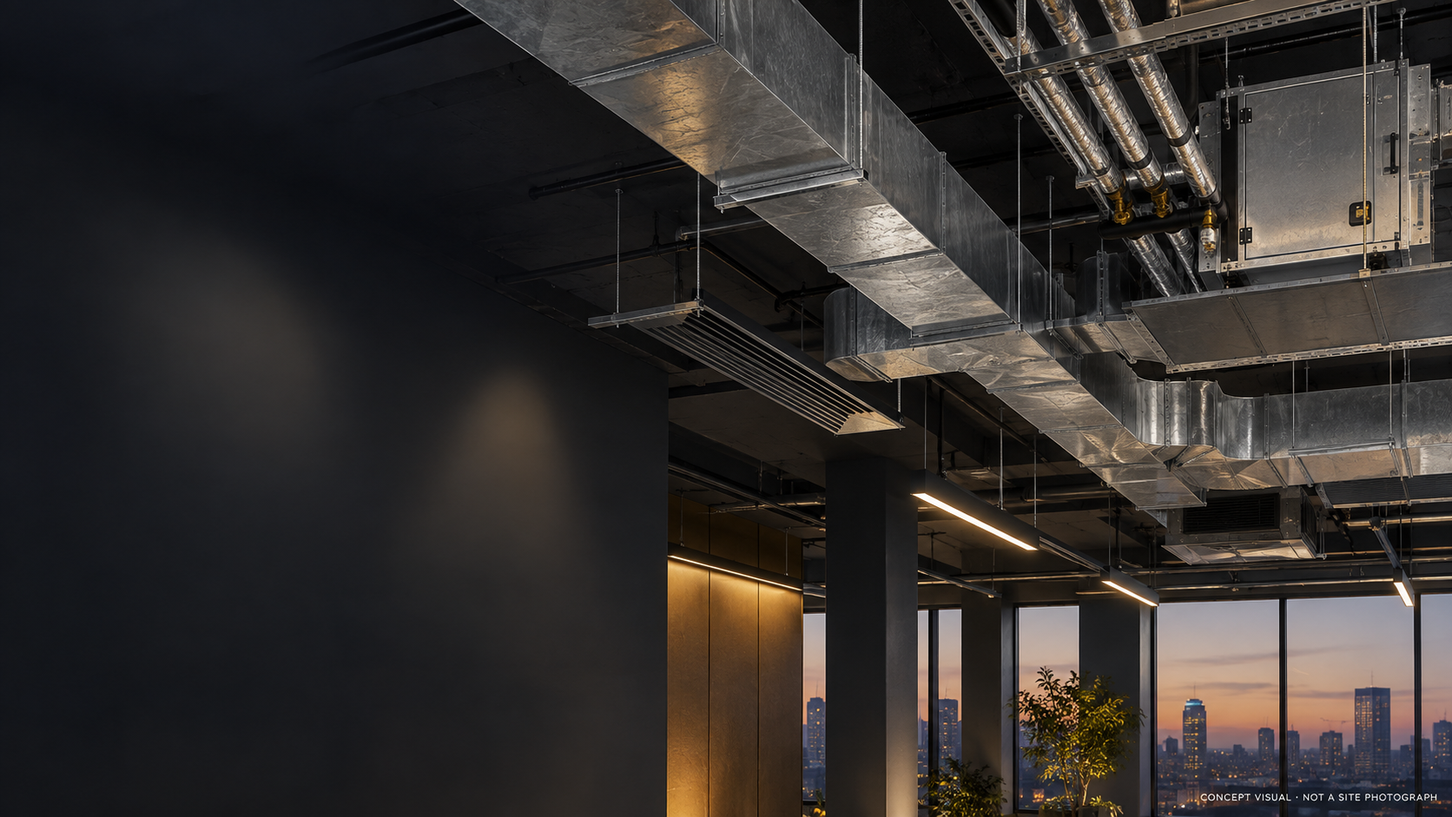
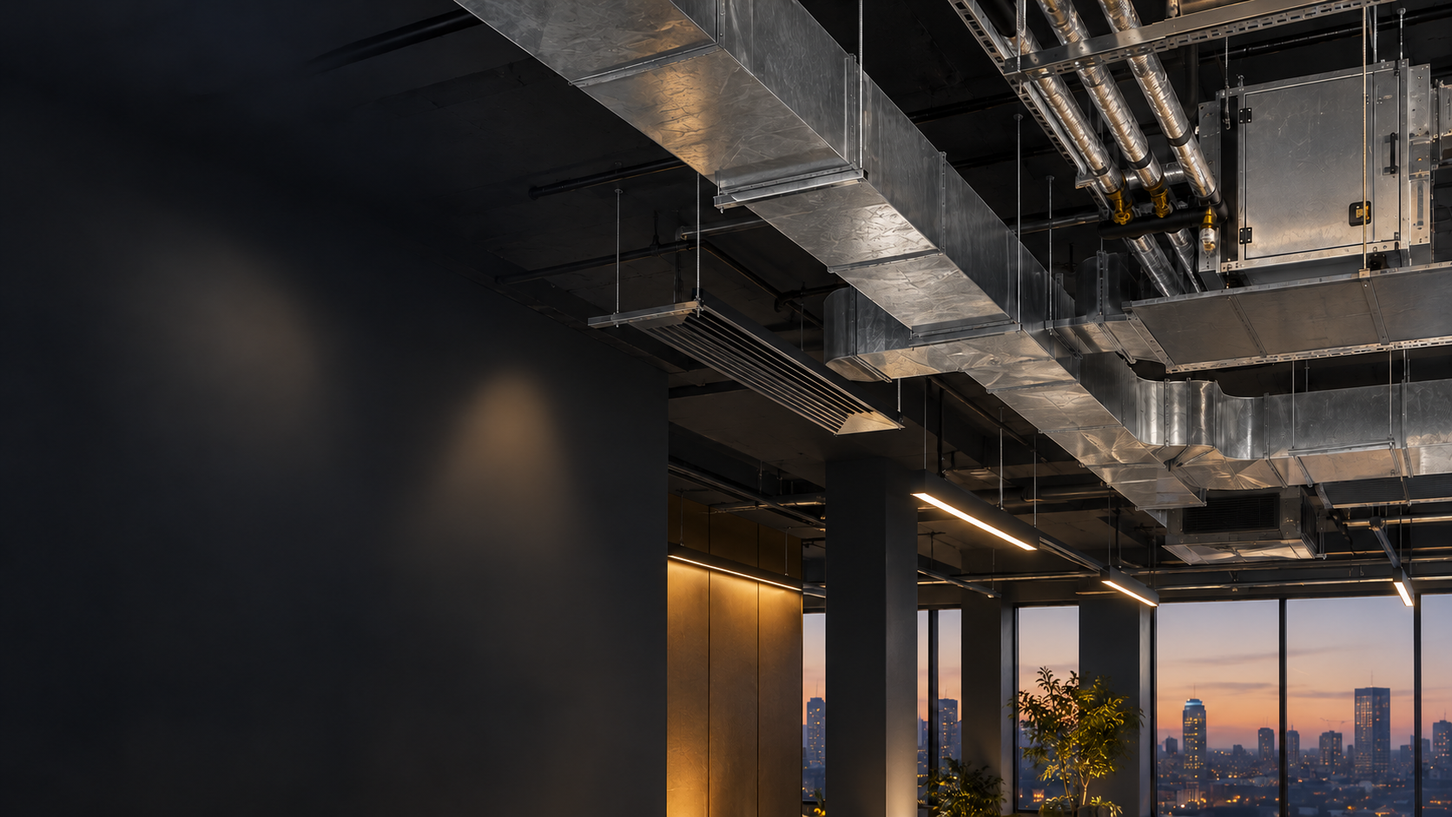
Improve website conversion and visual presentation

diff --git a/index.html b/index.html
@@ -12,7 +12,7 @@
 <link rel="icon" href="assets/brand/mac-key-grip-logo.jpg" type="image/jpeg">
 <link rel="preconnect" href="https://fonts.googleapis.com"><link rel="preconnect" href="https://fonts.gstatic.com" crossorigin>
 <link href="https://fonts.googleapis.com/css2?family=DM+Sans:wght@400;500;600;700&amp;family=Space+Grotesk:wght@500;600;700&amp;display=swap" rel="stylesheet">
-<link rel="stylesheet" href="styles.css"><link rel="stylesheet" href="drawings.css"><link rel="stylesheet" href="services.css"><link rel="stylesheet" href="visuals.css"><script src="script.js" defer></script>
+<link rel="stylesheet" href="styles.css"><link rel="stylesheet" href="drawings.css"><link rel="stylesheet" href="services.css"><link rel="stylesheet" href="visuals.css?v=2"><script src="script.js" defer></script>
 <script type="application/ld+json">{"@context":"https://schema.org","@type":"ProfessionalService","@id":"https://mackeygrip.github.io/#business","name":"Mac Key Grip Engineering","url":"https://mackeygrip.github.io/","logo":"https://mackeygrip.github.io/assets/brand/mac-key-grip-logo.jpg","image":"https://mackeygrip.github.io/assets/brand/mac-key-grip-logo.jpg","email":"mailto:mackeygrip@gmail.com","telephone":"+260770262871","description":"Engineering design and analysis capability covering HVAC, MEP coordination, water and sewer systems, fuel-station concepts, mechanical CAD and technical data analysis.","founder":{"@type":"Person","name":"Chinunka Chabala","jobTitle":"Mechanical Engineer"},"address":{"@type":"PostalAddress","addressLocality":"Lusaka","addressCountry":"ZM"},"areaServed":{"@type":"Country","name":"Zambia"},"sameAs":["https://www.instagram.com/mac_key_grip_engineering","https://www.tiktok.com/@mac.key.grip.engi","https://www.facebook.com/itxchinunkadat.brainboxer"],"knowsAbout":["HVAC design","MEP coordination","Water supply design","Sewer and drainage design","Fuel-station layouts","Mechanical CAD","Engineering data analysis"]}</script>
 </head>
 <body>
@@ -20,13 +20,13 @@
 <header class="site-header" data-header>
 <a class="brand" href="#top" aria-label="Mac Key Grip Engineering home"><img src="assets/brand/mac-key-grip-logo.jpg" alt="Mac Key Grip company logo"><span class="brand-name">Mac Key Grip<small>Engineering</small></span></a>
 <button class="menu-toggle" type="button" aria-expanded="false" aria-controls="site-nav"><span></span><span></span><span></span><b>Menu</b></button>
-<nav id="site-nav" aria-label="Primary navigation"><a href="#services">Services</a><a href="#work">Work</a><a href="#approach">Approach</a><a href="#profile">Profile</a><a class="nav-contact" href="#contact">Start a project <span>↗</span></a></nav>
+<nav id="site-nav" aria-label="Primary navigation"><a href="#services">Services</a><a href="#work">Work</a><a href="#approach">Approach</a><a href="#profile">Profile</a><a class="nav-contact" href="#contact">Request a quote <span>↗</span></a></nav>
 </header>
 <main id="main">
 <section class="hero" id="top">
-<div class="hero-media" aria-hidden="true"><img src="assets/visuals/concepts/hvac-ceiling-concept.webp" alt=""></div><div class="hero-shade"></div><div class="hero-grid" aria-hidden="true"></div>
-<div class="hero-content"><p class="kicker light">Mechanical design · Lusaka, Zambia</p><h1>HVAC &amp; MEP design.<br><em>Built with clarity.</em></h1><p class="hero-intro">Air-conditioning, ventilation, water and sewer design with coordinated CAD drawings. Mac Key Grip Engineering supports building and infrastructure projects in Zambia from its base in Lusaka.</p><div class="hero-actions"><a class="button button-yellow" href="services/hvac-air-conditioning-design-zambia.html">Explore HVAC design <span>↗</span></a><a class="text-link light" href="#contact">Discuss your brief <span>↗</span></a></div></div>
-<div class="hero-rail"><p>HVAC &amp; MEP</p><p>Water &amp; sewer</p><p>Fuel systems</p><p>CAD &amp; analysis</p></div><p class="hero-credit">AI-generated concept · not a site photograph</p>
+<div class="hero-media" aria-hidden="true"><img src="assets/visuals/concepts/hvac-ceiling-concept.webp?v=2" alt=""></div><div class="hero-shade"></div><div class="hero-grid" aria-hidden="true"></div>
+<div class="hero-content"><p class="kicker light">Mechanical design · Lusaka, Zambia</p><h1>HVAC &amp; MEP design.<br><em>Built with clarity.</em></h1><p class="hero-intro">Air-conditioning, ventilation, water and sewer design with coordinated CAD drawings. Mac Key Grip Engineering supports building and infrastructure projects in Zambia from its base in Lusaka.</p><div class="hero-actions"><a class="button button-yellow" href="#contact">Request a quote <span>↗</span></a><a class="text-link light" href="services/hvac-air-conditioning-design-zambia.html">Explore HVAC design <span>↗</span></a></div></div>
+<div class="hero-rail"><p>HVAC &amp; MEP</p><p>Water &amp; sewer</p><p>Fuel systems</p><p>CAD &amp; analysis</p></div>
 </section>
 <section class="statement section-light">
 <div class="statement-mark" aria-hidden="true">MKG</div><div class="statement-copy reveal"><p class="kicker">What we do</p><h2>Engineering that moves from a sound idea to a coordinated, readable deliverable.</h2></div><div class="statement-aside reveal"><p>Mac Key Grip brings together system thinking, calculation, modelling and documentation—so the work is easier to review, communicate and develop.</p><a class="text-link" href="#profile">Meet the engineer <span>↗</span></a></div>
@@ -41,6 +41,10 @@
 </div>
 <div class="service-directory"><a href="services/hvac-air-conditioning-design-zambia.html">HVAC and air-conditioning design in Zambia ↗</a><a href="services/mep-design-coordination-zambia.html">Mechanical, plumbing and MEP coordination ↗</a></div>
 </section>
+<section class="water-feature" aria-labelledby="water-heading">
+<div class="water-feature-media"><img src="assets/visuals/concepts/water-treatment-concept.webp?v=2" width="1672" height="941" loading="lazy" alt="" aria-hidden="true"></div>
+<div class="water-feature-copy"><p class="kicker">Water systems</p><h2 id="water-heading">Storage. Treatment.<br>Distribution.</h2><p>Plan water demand, storage, pumping and distribution as one coordinated system. Clear layouts connect equipment, pipe routes and maintenance access.</p><a class="text-link" href="services/mep-design-coordination-zambia.html">Explore mechanical &amp; plumbing design <span>↗</span></a></div>
+</section>
 <section class="work section-light" id="work">
 <header class="section-header dark-text reveal"><div><p class="kicker">Drawing portfolio</p><h2>The design, in detail.</h2></div><p>Ten drawing sheets across five project sets: building services, water, sewer, fire services and fuel infrastructure. Explore complete layouts and their supporting details.</p></header>
 <div class="project-grid">
@@ -50,9 +54,9 @@
 <article class="project cad-project reveal"><a class="project-image portfolio-cover" href="projects/apartments-hvac.html" aria-label="Explore Apartment HVAC drawings"><img src="assets/visuals/covers/apartments-hvac.webp" width="1600" height="1000" loading="lazy" alt="Portfolio cover composed from genuine Apartment HVAC CAD drawings"></a><div class="project-info"><p>Residential building services</p><h3><a href="projects/apartments-hvac.html">Apartments — HVAC coordination</a></h3><span>Cooling, ductwork &amp; extraction</span></div></article>
 <article class="project cad-project reveal"><a class="project-image portfolio-cover" href="projects/office-hvac.html" aria-label="Explore Office HVAC drawings"><img src="assets/visuals/covers/office-hvac.webp" width="1600" height="1000" loading="lazy" alt="Portfolio cover composed from genuine Office HVAC CAD drawings"></a><div class="project-info"><p>Commercial building services</p><h3><a href="projects/office-hvac.html">Office — HVAC layout &amp; schedules</a></h3><span>Air-conditioning &amp; ventilation</span></div></article>
 <article class="project project-graphic reveal"><a class="project-image data-visual" href="#analysis" aria-label="View analytical project work"><div class="chart-bars" aria-hidden="true"><i></i><i></i><i></i><i></i><i></i><i></i></div><span class="data-value">5 yr</span><span class="data-caption">dashboard view</span><span class="project-index">04</span></a><div class="project-info"><p>Decision support</p><h3>Excel analysis &amp; dashboards</h3><span>Data cleaning · scenarios · reporting</span></div></article>
-</div><p class="image-note">Drawing samples are supplied by Chinunka Chabala; original sheet credits and issue status are retained in the full-sheet views. The hero is an AI-generated concept visual, not a photograph of completed work. <a href="CREDITS.md">View image credits</a>.</p>
+</div><p class="image-note">Drawing samples are supplied by Chinunka Chabala; original sheet credits and issue status are retained in the full-sheet views. <a href="CREDITS.md">View image credits</a>.</p>
 </section>
-<section class="visual-feature" aria-labelledby="visual-heading"><div><p class="kicker light">Technical presentation</p><h2 id="visual-heading">See the thinking.<br>Read the detail.</h2><p>Presentation boards and annotated views make the original CAD work easier to explore. Concept installation visuals are labelled separately.</p><a class="button button-yellow" href="visuals.html">Explore the visual gallery ↗</a></div><a href="visuals.html#boards"><img src="assets/visuals/boards/hvac-annotated.webp" width="1600" height="1067" loading="lazy" alt="Annotated original apartment HVAC drawing with four numbered explanatory callouts"></a></section>
+<section class="visual-feature" aria-labelledby="visual-heading"><div><p class="kicker light">Technical presentation</p><h2 id="visual-heading">See the thinking.<br>Read the detail.</h2><p>Presentation boards and annotated views make the original CAD work easier to explore.</p><a class="button button-yellow" href="visuals.html">Explore the visual gallery ↗</a></div><a href="visuals.html#boards"><img src="assets/visuals/boards/hvac-annotated.webp" width="1600" height="1067" loading="lazy" alt="Annotated original apartment HVAC drawing with four numbered explanatory callouts"></a></section>
 <section class="analysis-section" id="analysis">
 <div class="analysis-visual reveal" aria-label="Abstract electric vehicle supply-chain route diagram"><div class="route-grid" aria-hidden="true"></div><svg viewBox="0 0 700 440" role="img" aria-label="Supply chain route connecting battery inputs, production, assembly and distribution"><path d="M50 330C145 330 145 115 260 115S370 330 475 330 555 165 650 165"/><circle cx="50" cy="330" r="11"/><circle cx="260" cy="115" r="11"/><circle cx="475" cy="330" r="11"/><circle cx="650" cy="165" r="11"/></svg><span class="route-point p1">Inputs</span><span class="route-point p2">Battery</span><span class="route-point p3">Assembly</span><span class="route-point p4">Market</span><div class="analysis-stamp"><strong>12</strong><span>month<br>pilot model</span></div></div>
 <div class="analysis-copy reveal"><p class="kicker light">Research &amp; simulation</p><h2>EV supply-chain model for Zambia.</h2><p>A final-year project modelling the flow of regional battery inputs and imported components into battery production and vehicle assembly in Chibombo.</p><dl><div><dt>Platform</dt><dd>AnyLogic</dd></div><div><dt>Focus</dt><dd>Inventory, throughput, delay and bottlenecks</dd></div><div><dt>Outcome</dt><dd>A structured pilot scenario for technical evaluation</dd></div></dl></div>
@@ -68,7 +72,7 @@
 </section>
 <section class="contact section-dark" id="contact">
 <div class="contact-intro reveal"><p class="kicker light">Start a conversation</p><h2>Bring the brief.<br><em>Let’s shape the system.</em></h2><p>For a useful first discussion, share the project location, available drawings, required scope and expected deliverables.</p></div>
-<div class="contact-panel reveal"><p class="contact-panel-title">Connect with Mac Key Grip</p><div class="contact-links">
+<div class="contact-panel reveal"><p class="contact-panel-title">Request a project quote</p><form class="enquiry-form" data-enquiry-form><div class="form-row"><label for="enquiry-name">Your name</label><input id="enquiry-name" name="name" type="text" autocomplete="name" required></div><div class="form-row"><label for="enquiry-email">Email address</label><input id="enquiry-email" name="email" type="email" autocomplete="email" required></div><div class="form-row"><label for="enquiry-scope">What do you need designed?</label><select id="enquiry-scope" name="scope"><option>HVAC / air-conditioning</option><option>Water and sewer systems</option><option>MEP coordination</option><option>Fuel-station layout</option><option>CAD or engineering analysis</option><option>Not sure yet</option></select></div><div class="form-row"><label for="enquiry-message">Brief project details</label><textarea id="enquiry-message" name="message" rows="4" placeholder="Location, building use, drawings available and desired deliverables" required></textarea></div><button class="button button-yellow" type="submit">Prepare email enquiry <span>↗</span></button><p class="form-note">This static site opens your email app with the details filled in; no form data is stored here.</p><p class="contact-status" data-form-status role="status" aria-live="polite"></p></form><p class="contact-panel-title contact-options-title">Or connect directly</p><div class="contact-links">
 <a data-contact="whatsapp" href="https://wa.me/260770262871" target="_blank" rel="noopener"><span>WA</span><strong>WhatsApp</strong><small>+260 770 262 871</small><b>↗</b></a>
 <a data-contact="email" href="mailto:mackeygrip@gmail.com"><span>@</span><strong>Email</strong><small>mackeygrip@gmail.com</small><b>↗</b></a>
 <a data-contact="instagram" href="https://www.instagram.com/mac_key_grip_engineering" target="_blank" rel="noopener"><span>IG</span><strong>Instagram</strong><small>@mac_key_grip_engineering</small><b>↗</b></a>

diff --git a/styles.css b/styles.css
@@ -1,5 +1,5 @@
 :root{--black:#0a0b0b;--charcoal:#1a1d1d;--yellow:#ffe600;--paper:#f2f1ec;--ink:#151717;--line-dark:rgba(255,255,255,.16);--line-light:rgba(10,11,11,.17);--max:1320px;--pad:max(24px,calc((100vw - var(--max))/2))}
-*{box-sizing:border-box}html{scroll-behavior:smooth;scroll-padding-top:84px}body{margin:0;color:var(--ink);background:var(--paper);font-family:"DM Sans",Arial,sans-serif;line-height:1.55}body.menu-open{overflow:hidden}img{display:block;max-width:100%}a{color:inherit}button{font:inherit}h1,h2,h3,p{margin-top:0}.skip-link{position:fixed;z-index:1000;left:1rem;top:-6rem;padding:.8rem 1rem;color:#000;background:var(--yellow)}.skip-link:focus{top:1rem}.kicker{margin:0 0 1.35rem;color:#3e4442;font-size:.69rem;font-weight:700;letter-spacing:.18em;text-transform:uppercase}.kicker.light{color:var(--yellow)}.section-light,.section-dark,.section-yellow{padding:clamp(5.5rem,9vw,9.5rem) var(--pad)}.section-light{background:var(--paper)}.section-dark{color:#fff;background:var(--black)}.section-yellow{color:#090a0a;background:var(--yellow)}
+*{box-sizing:border-box}html{scroll-behavior:smooth;scroll-padding-top:84px}body{margin:0;color:var(--ink);background:var(--paper);font-family:"DM Sans",Arial,sans-serif;line-height:1.55}body.menu-open{overflow:hidden}img{display:block;max-width:100%}a{color:inherit}button{font:inherit}h1,h2,h3,p{margin-top:0}.skip-link{position:fixed;z-index:1000;left:1rem;top:-6rem;padding:.8rem 1rem;color:#000;background:var(--yellow)}.skip-link:focus{top:1rem}.kicker{margin:0 0 1.35rem;color:#3e4442;font-size:.69rem;font-weight:700;letter-spacing:.18em;text-transform:uppercase}.kicker.light{color:var(--yellow)}.section-light,.section-dark,.section-yellow{padding:clamp(5.5rem,9vw,9.5rem) var(--pad)}.section-light{background:var(--paper)}.section-dark{color:#fff;background:var(--black)}.section-yellow{color:#090a0a;background:var(--yellow)}:focus-visible{outline:3px solid var(--yellow);outline-offset:4px}.section-light :focus-visible,.section-yellow :focus-visible{outline-color:#111}
 .site-header{position:fixed;z-index:100;inset:0 0 auto;height:84px;display:flex;align-items:center;justify-content:space-between;padding:0 var(--pad);color:#fff;background:rgba(10,11,11,.93);border-bottom:1px solid rgba(255,255,255,.12);backdrop-filter:blur(16px);transition:.25s}.site-header.scrolled{height:72px;background:rgba(10,11,11,.98)}.brand,.footer-brand{display:flex;align-items:center;gap:.75rem;text-decoration:none}.brand img{width:48px;height:48px;object-fit:contain;background:#071a23}.brand-name{font-family:"Space Grotesk";font-size:.93rem;font-weight:700;line-height:1.05}.brand-name small{display:block;margin-top:.28rem;color:var(--yellow);font:700 .52rem "DM Sans";letter-spacing:.2em;text-transform:uppercase}.site-header nav{display:flex;align-items:center;gap:clamp(1rem,2.1vw,2.2rem)}.site-header nav a{font-size:.75rem;font-weight:600;text-decoration:none}.site-header nav>a:not(.nav-contact){position:relative}.site-header nav>a:not(.nav-contact):after{content:"";position:absolute;left:0;bottom:-.45rem;width:0;height:2px;background:var(--yellow);transition:.2s}.site-header nav>a:hover:after{width:100%}.nav-contact{padding:.74rem 1rem;color:#050505;background:var(--yellow)}.nav-contact span{margin-left:.65rem}.menu-toggle{display:none}
 .hero{position:relative;isolation:isolate;min-height:820px;height:100svh;overflow:hidden;display:flex;align-items:flex-end;padding:calc(84px + 5rem) var(--pad) 7rem;color:#fff;background:#111}.hero-media,.hero-shade,.hero-grid{position:absolute;inset:0}.hero-media{z-index:-4}.hero-media img{width:100%;height:100%;object-fit:cover;object-position:center 42%;filter:grayscale(1) contrast(1.18) brightness(.64);transform:scale(1.02)}.hero-shade{z-index:-3;background:linear-gradient(90deg,rgba(5,6,6,.96),rgba(5,6,6,.74) 43%,rgba(5,6,6,.26) 75%,rgba(5,6,6,.48)),linear-gradient(0deg,rgba(5,6,6,.92),transparent 53%)}.hero-grid{z-index:-2;opacity:.14;background-image:linear-gradient(rgba(255,255,255,.16) 1px,transparent 1px),linear-gradient(90deg,rgba(255,255,255,.16) 1px,transparent 1px);background-size:76px 76px;mask-image:linear-gradient(90deg,#000,transparent 70%)}.hero-content{width:min(930px,78%)}.hero h1{margin:0;font:600 clamp(3.7rem,7.6vw,7.8rem)/.88 "Space Grotesk";letter-spacing:-.065em}.hero h1 em,.contact h2 em{color:var(--yellow);font-style:normal}.hero-intro{max-width:670px;margin:2rem 0 0;color:#d6d9d7;font-size:clamp(1rem,1.5vw,1.22rem)}.hero-actions{display:flex;align-items:center;gap:2rem;margin-top:2.4rem}.button{display:inline-flex;align-items:center;justify-content:space-between;min-width:220px;padding:1rem 1.15rem;font-size:.75rem;font-weight:700;text-decoration:none;text-transform:uppercase;letter-spacing:.08em;transition:.2s}.button:hover{transform:translateY(-3px)}.button-yellow{color:#050505;background:var(--yellow)}.button-yellow:hover{background:#fff}.text-link{display:inline-flex;align-items:center;gap:.8rem;padding:.35rem 0;border-bottom:1px solid;font-size:.78rem;font-weight:700;text-decoration:none}.text-link span{transition:.2s}.text-link:hover span{transform:translate(3px,-3px)}.text-link.light{color:#fff}.hero-rail{position:absolute;right:var(--pad);bottom:7rem;display:grid;gap:.85rem;padding-left:1.5rem;border-left:1px solid rgba(255,255,255,.4)}.hero-rail p{margin:0;color:#d5d7d6;font-size:.67rem;font-weight:600;letter-spacing:.13em;text-transform:uppercase}.hero-credit{position:absolute;right:var(--pad);bottom:1.5rem;margin:0;color:rgba(255,255,255,.55);font-size:.52rem;letter-spacing:.08em;text-transform:uppercase}
 .statement{position:relative;overflow:hidden;display:grid;grid-template-columns:1.4fr .6fr;gap:clamp(3rem,8vw,9rem);align-items:end}.statement-mark{position:absolute;right:-3rem;top:-5rem;color:rgba(10,11,11,.035);font:700 clamp(12rem,29vw,30rem)/1 "Space Grotesk"}.statement h2,.section-header h2,.analysis-copy h2,.profile-title h2,.contact h2{margin:0;font:600 clamp(2.7rem,5vw,5.4rem)/.98 "Space Grotesk";letter-spacing:-.055em}.statement-copy,.statement-aside{position:relative}.statement-aside{max-width:400px}.statement-aside p{margin-bottom:2rem;color:#555b58}
@@ -9,6 +9,7 @@
 .process{display:grid;grid-template-columns:repeat(4,1fr);margin:0;padding:0;border-top:1px solid var(--line-light);list-style:none}.process li{position:relative;min-height:260px;padding:1.6rem 1.7rem 1.5rem 0;border-right:1px solid var(--line-light)}.process li+li{padding-left:1.7rem}.process li:last-child{border:0}.process span{color:#606562;font-size:.65rem}.process h3{margin:5rem 0 .8rem;font:1.55rem "Space Grotesk"}.process p{max-width:240px;margin:0;color:#5f6562;font-size:.8rem}.process li:after{content:"";position:absolute;right:-5px;top:-5px;width:9px;height:9px;background:var(--yellow);border:1px solid #111;border-radius:50%}.process li:last-child:after{display:none}
 .profile{display:grid;grid-template-columns:1.05fr .95fr;gap:clamp(3rem,7vw,8rem)}.profile-card{align-self:start;display:grid;grid-template-columns:120px 1fr;gap:1.8rem;padding:1.8rem;background:#0e1010;color:#fff}.profile-card img{width:120px;height:120px;object-fit:contain;background:#071a23}.profile-label{margin:0 0 .65rem;color:var(--yellow);font-size:.6rem;font-weight:700;text-transform:uppercase}.profile-card h3{margin:0 0 .75rem;font:1.6rem "Space Grotesk"}.profile-card div>p:last-child{margin:0;color:#c7cbc9;font-size:.8rem}.profile-tools{grid-column:1/-1;display:grid;grid-template-columns:.3fr 1.7fr;gap:2rem;align-items:center;padding-top:2rem;border-top:1px solid rgba(0,0,0,.3)}.profile-tools p{margin:0;font-size:.68rem;font-weight:700;text-transform:uppercase}.profile-tools ul{display:flex;flex-wrap:wrap;gap:.55rem;margin:0;padding:0;list-style:none}.profile-tools li{padding:.5rem .75rem;border:1px solid rgba(0,0,0,.4);font-size:.7rem;font-weight:700}
 .contact{display:grid;grid-template-columns:.85fr 1.15fr;gap:clamp(4rem,9vw,11rem)}.contact-intro{position:sticky;top:120px}.contact-intro>p:not(.kicker){max-width:530px;margin:2rem 0 0;color:#b9bebc}.contact-links{border-top:1px solid var(--line-dark)}.contact-panel-title{margin-bottom:1.4rem;color:#939997;font-size:.66rem;font-weight:700;letter-spacing:.13em;text-transform:uppercase}.contact-links a{display:grid;grid-template-columns:44px 1fr 1.1fr 22px;gap:1rem;align-items:center;padding:1.3rem 0;border-bottom:1px solid var(--line-dark);text-decoration:none;transition:.2s}.contact-links a:hover:not([aria-disabled="true"]){padding-left:.7rem;color:var(--yellow)}.contact-links a[aria-disabled="true"]{cursor:not-allowed}.contact-links a>span{display:grid;place-items:center;width:36px;height:36px;border:1px solid #555;border-radius:50%;font-size:.62rem;font-weight:700}.contact-links strong{font:1rem "Space Grotesk"}.contact-links small{color:#929795;font-size:.68rem}.contact-status{min-height:1.2rem;margin:1.2rem 0 0;color:#8f9492;font-size:.65rem}.contact-status.active{color:var(--yellow)}
+.enquiry-form{margin:0 0 2.8rem;padding:1.5rem;background:#151818;border:1px solid var(--line-dark)}.form-row{display:grid;gap:.4rem;margin-bottom:1rem}.form-row label{color:#d8ddda;font-size:.72rem;font-weight:700}.form-row input,.form-row select,.form-row textarea{width:100%;padding:.78rem .85rem;color:#fff;background:#0a0b0b;border:1px solid #4b5350;border-radius:0;font:inherit;font-size:.82rem}.form-row textarea{resize:vertical}.form-row input::placeholder,.form-row textarea::placeholder{color:#89918d}.enquiry-form .button{border:0;cursor:pointer}.form-note{margin:1rem 0 0;color:#929795;font-size:.68rem}.contact-options-title{margin-top:0}
 footer{display:grid;grid-template-columns:1fr 1fr 1fr;gap:2rem;align-items:end;padding:2.5rem var(--pad);color:#bbb;background:#060707;border-top:1px solid rgba(255,255,255,.12);font-size:.67rem}.footer-brand img{width:45px;height:45px;object-fit:contain;background:#071a23}.footer-brand span{color:#fff;font:700 .85rem "Space Grotesk"}.footer-brand strong{display:block;color:var(--yellow);font:700 .5rem "DM Sans";letter-spacing:.17em;text-transform:uppercase}.footer-end{text-align:right}.footer-end a{color:#fff;font-weight:700;text-decoration:none}footer p{margin:.25rem 0}.reveal{opacity:0;transform:translateY(26px);transition:opacity .65s,transform .65s}.reveal.visible{opacity:1;transform:none}
 @media(max-width:1050px){.service{grid-template-columns:55px 1fr 1fr 30px}.service ul{display:none}.project-info{grid-template-columns:1fr}.analysis-section{grid-template-columns:1fr}.analysis-copy{grid-row:1}.analysis-visual{min-height:520px}.profile,.contact{grid-template-columns:1fr}.contact-intro{position:static}}
 @media(max-width:780px){html{scroll-padding-top:70px}.site-header{height:70px}.site-header.scrolled{height:64px}.brand img{width:40px;height:40px}.menu-toggle{display:grid;width:45px;height:45px;padding:12px;border:0;background:transparent}.menu-toggle span{height:1px;margin:2px 0;background:#fff;transition:.2s}.menu-toggle b{position:absolute;width:1px;height:1px;overflow:hidden}.menu-toggle[aria-expanded="true"] span:nth-child(1){transform:translateY(5px) rotate(45deg)}.menu-toggle[aria-expanded="true"] span:nth-child(2){opacity:0}.menu-toggle[aria-expanded="true"] span:nth-child(3){transform:translateY(-5px) rotate(-45deg)}.site-header nav{position:fixed;inset:70px 0 0;display:flex;flex-direction:column;align-items:stretch;gap:0;padding:2rem 24px;background:#0a0b0b;transform:translateX(100%);visibility:hidden;transition:.3s}.site-header nav.open{transform:none;visibility:visible}.site-header nav a{padding:1.3rem 0;border-bottom:1px solid var(--line-dark);font:1.5rem "Space Grotesk"}.nav-contact{margin-top:1.5rem;padding:1rem!important;text-align:center}.hero{min-height:730px;padding-bottom:5rem}.hero-content{width:100%}.hero h1{font-size:clamp(3.4rem,15vw,6rem)}.hero-rail{display:none}.statement,.section-header{grid-template-columns:1fr}.section-header{gap:1.5rem;margin-bottom:3.5rem}.service{grid-template-columns:40px 1fr 24px;gap:1rem}.service p{grid-column:2/-1}.service-arrow{grid-column:3;grid-row:1}.project-grid{grid-template-columns:1fr}.project-wide{grid-column:auto}.project-image,.project:not(.project-wide) .project-image{height:72vw;min-height:300px;max-height:470px}.project-info{gap:.6rem}.process{grid-template-columns:1fr 1fr}.process li:nth-child(2){border-right:0}.process li:nth-child(2):after{display:none}.process li:nth-child(n+3){border-top:1px solid var(--line-light)}.profile-tools{grid-template-columns:1fr}.contact-links a{grid-template-columns:44px 1fr 22px}.contact-links small{display:none}footer{grid-template-columns:1fr 1fr}.footer-end{grid-column:2;grid-row:1/3}footer>div:nth-child(2){grid-column:1}}

diff --git a/visuals.html b/visuals.html
@@ -1,8 +1,8 @@
 <!doctype html>
 <html lang="en"><head>
 <meta charset="utf-8"><meta name="viewport" content="width=device-width, initial-scale=1">
-<title>Engineering Drawing Presentations & Concept Visuals | Mac Key Grip</title>
-<meta name="description" content="Explore genuine CAD presentation boards, annotated layouts and project covers from Mac Key Grip Engineering, alongside clearly labelled concept installation visuals.">
+<title>Engineering Drawing Presentations & Website Imagery | Mac Key Grip</title>
+<meta name="description" content="Explore genuine CAD presentation boards, annotated layouts and project covers from Mac Key Grip Engineering, alongside architectural visualisations for the website design.">
 <link rel="canonical" href="https://mackeygrip.github.io/visuals.html">
 <meta property="og:title" content="Engineering Drawing Portfolio | Mac Key Grip Engineering">
 <meta property="og:type" content="website"><meta property="og:url" content="https://mackeygrip.github.io/visuals.html">
@@ -11,11 +11,11 @@
 <meta name="theme-color" content="#111918"><link rel="icon" href="assets/brand/mac-key-grip-logo.jpg">
 <link rel="preconnect" href="https://fonts.googleapis.com"><link rel="preconnect" href="https://fonts.gstatic.com" crossorigin>
 <link href="https://fonts.googleapis.com/css2?family=DM+Sans:wght@400;500;600;700&amp;family=Space+Grotesk:wght@500;600;700&amp;display=swap" rel="stylesheet">
-<link rel="stylesheet" href="styles.css"><link rel="stylesheet" href="drawings.css"><link rel="stylesheet" href="visuals.css">
+<link rel="stylesheet" href="styles.css"><link rel="stylesheet" href="drawings.css"><link rel="stylesheet" href="visuals.css?v=2">
 </head><body class="visual-page">
 <a class="skip-link" href="#main">Skip to content</a>
 <header class="site-header"><a class="brand" href="index.html"><img src="assets/brand/mac-key-grip-logo.jpg" alt="Mac Key Grip company logo"><span class="brand-name">Mac Key Grip<small>Engineering</small></span></a><a class="back-link" href="index.html#work">← Drawing portfolio</a></header>
-<main id="main"><section class="visual-intro"><p class="kicker">Mac Key Grip / Visual portfolio</p><h1>Engineering, clearly presented.</h1><p>Genuine drawing work, curated into project covers, presentation boards and annotated views. Explore the CAD collection first, then the separately labelled concept installation visuals.</p><div class="visual-nav" aria-label="Gallery sections"><a href="#covers">Project covers</a><a href="#boards">Boards &amp; annotations</a><a href="#social">Social graphics</a><a href="#concepts">Concept visuals</a></div></section>
+<main id="main"><section class="visual-intro"><p class="kicker">Mac Key Grip / Visual portfolio</p><h1>Engineering, clearly presented.</h1><p>Genuine drawing work, curated into project covers, presentation boards and annotated views. Browse the CAD collection and a separate selection of website imagery.</p><div class="visual-nav" aria-label="Gallery sections"><a href="#covers">Project covers</a><a href="#boards">Boards &amp; annotations</a><a href="#social">Social graphics</a><a href="#concepts">Website imagery</a></div></section>
 <section class="visual-section " id="covers"><h2>Engineering project covers</h2><p>Five individually designed covers assembled from the original drawing exports. Each links to its complete project set.</p><div class="visual-grid "><figure class="visual-item"><span class="visual-badge ">CAD DRAWING</span><a href="assets/visuals/covers/thirteen-miles.png" target="_blank" rel="noopener"><img src="assets/visuals/covers/thirteen-miles.webp" width="1600" height="1000" alt="13 Miles / Building services — Original CAD excerpts, with presentation framing and full sheets retained in the portfolio." loading="lazy"></a><figcaption><h3>13 Miles / Building services</h3><p>Original CAD excerpts, with presentation framing and full sheets retained in the portfolio.</p><div class="visual-downloads"><a href="assets/visuals/covers/thirteen-miles.png" download>Download PNG ↓</a><a href="assets/visuals/covers/thirteen-miles.svg" download>Editable SVG ↓</a><a href="projects/thirteen-miles.html">View original drawings →</a></div></figcaption></figure>
 <figure class="visual-item"><span class="visual-badge ">CAD DRAWING</span><a href="assets/visuals/covers/estate-water-fire.png" target="_blank" rel="noopener"><img src="assets/visuals/covers/estate-water-fire.webp" width="1600" height="1000" alt="Ovacado Estate / Water &amp; fire services — Original CAD excerpts, with presentation framing and full sheets retained in the portfolio." loading="lazy"></a><figcaption><h3>Ovacado Estate / Water &amp; fire services</h3><p>Original CAD excerpts, with presentation framing and full sheets retained in the portfolio.</p><div class="visual-downloads"><a href="assets/visuals/covers/estate-water-fire.png" download>Download PNG ↓</a><a href="assets/visuals/covers/estate-water-fire.svg" download>Editable SVG ↓</a><a href="projects/estate-water-fire.html">View original drawings →</a></div></figcaption></figure>
 <figure class="visual-item"><span class="visual-badge ">CAD DRAWING</span><a href="assets/visuals/covers/chililabombwe-fuel.png" target="_blank" rel="noopener"><img src="assets/visuals/covers/chililabombwe-fuel.webp" width="1600" height="1000" alt="Chililabombwe / Fuel infrastructure — Original CAD excerpts, with presentation framing and full sheets retained in the portfolio." loading="lazy"></a><figcaption><h3>Chililabombwe / Fuel infrastructure</h3><p>Original CAD excerpts, with presentation framing and full sheets retained in the portfolio.</p><div class="visual-downloads"><a href="assets/visuals/covers/chililabombwe-fuel.png" download>Download PNG ↓</a><a href="assets/visuals/covers/chililabombwe-fuel.svg" download>Editable SVG ↓</a><a href="projects/chililabombwe-fuel.html">View original drawings →</a></div></figcaption></figure>
@@ -27,7 +27,7 @@
 <section class="visual-section " id="social"><h2>Social media graphics</h2><p>Separate 1080 × 1350 PNG graphics for sharing the actual drawing portfolio, with the website address and WhatsApp contact included.</p><div class="visual-grid social-grid"><figure class="visual-item"><span class="visual-badge ">CAD DRAWING</span><a href="assets/visuals/social/apartments-hvac.png" target="_blank" rel="noopener"><img src="assets/visuals/social/apartments-hvac.png" width="1080" height="1350" alt="HVAC design / Social graphic — Cooling, ductwork and extraction." loading="lazy"></a><figcaption><h3>HVAC design / Social graphic</h3><p>Cooling, ductwork and extraction.</p><div class="visual-downloads"><a href="assets/visuals/social/apartments-hvac.png" download>Download PNG ↓</a><a href="assets/visuals/social/apartments-hvac.svg" download>Editable SVG ↓</a></div></figcaption></figure>
 <figure class="visual-item"><span class="visual-badge ">CAD DRAWING</span><a href="assets/visuals/social/estate-water-fire.png" target="_blank" rel="noopener"><img src="assets/visuals/social/estate-water-fire.png" width="1080" height="1350" alt="Water systems / Social graphic — Water, fire services and treatment." loading="lazy"></a><figcaption><h3>Water systems / Social graphic</h3><p>Water, fire services and treatment.</p><div class="visual-downloads"><a href="assets/visuals/social/estate-water-fire.png" download>Download PNG ↓</a><a href="assets/visuals/social/estate-water-fire.svg" download>Editable SVG ↓</a></div></figcaption></figure>
 <figure class="visual-item"><span class="visual-badge ">CAD DRAWING</span><a href="assets/visuals/social/chililabombwe-fuel.png" target="_blank" rel="noopener"><img src="assets/visuals/social/chililabombwe-fuel.png" width="1080" height="1350" alt="Fuel infrastructure / Social graphic — Tank arrangements, pipework and dispensers." loading="lazy"></a><figcaption><h3>Fuel infrastructure / Social graphic</h3><p>Tank arrangements, pipework and dispensers.</p><div class="visual-downloads"><a href="assets/visuals/social/chililabombwe-fuel.png" download>Download PNG ↓</a><a href="assets/visuals/social/chililabombwe-fuel.svg" download>Editable SVG ↓</a></div></figcaption></figure></div></section>
-<section class="visual-section concept-section" id="concepts"><h2>Concept installation visuals</h2><p>AI-generated illustrations communicate the engineering disciplines. They are not site photographs, verified designs or exact reconstructions of the CAD drawings.</p><div class="visual-grid "><figure class="visual-item"><span class="visual-badge concept-badge">AI-GENERATED CONCEPT</span><a href="assets/visuals/concepts/hvac-ceiling-concept.png" target="_blank" rel="noopener"><img src="assets/visuals/concepts/hvac-ceiling-concept.webp" width="1672" height="941" alt="Exposed HVAC ceiling / Concept — Illustrative mechanical-services ceiling. Used as the website hero, with a visible concept label." loading="lazy"></a><figcaption><h3>Exposed HVAC ceiling / Concept</h3><p>Illustrative mechanical-services ceiling. Used as the website hero, with a visible concept label.</p><div class="visual-downloads"><a href="assets/visuals/concepts/hvac-ceiling-concept.png" download>Download PNG ↓</a></div></figcaption></figure>
-<figure class="visual-item"><span class="visual-badge concept-badge">AI-GENERATED CONCEPT</span><a href="assets/visuals/concepts/water-treatment-concept.png" target="_blank" rel="noopener"><img src="assets/visuals/concepts/water-treatment-concept.webp" width="1672" height="941" alt="Pumping &amp; filtration / Concept — Illustrative plant room inspired by the water-services subject matter; not a reconstruction of the estate layout." loading="lazy"></a><figcaption><h3>Pumping &amp; filtration / Concept</h3><p>Illustrative plant room inspired by the water-services subject matter; not a reconstruction of the estate layout.</p><div class="visual-downloads"><a href="assets/visuals/concepts/water-treatment-concept.png" download>Download PNG ↓</a></div></figcaption></figure></div></section>
+<section class="visual-section concept-section" id="concepts"><h2>Website imagery</h2><p>Architectural visualisations of mechanical and water services, created for the website design.</p><div class="visual-grid "><figure class="visual-item"><a href="assets/visuals/concepts/hvac-ceiling-concept.png?v=2" target="_blank" rel="noopener"><img src="assets/visuals/concepts/hvac-ceiling-concept.webp?v=2" width="1672" height="941" alt="Exposed HVAC ceiling — Mechanical-services ceiling visualisation for the homepage." loading="lazy"></a><figcaption><h3>Exposed HVAC ceiling</h3><p>Mechanical-services ceiling visualisation for the homepage.</p><div class="visual-downloads"><a href="assets/visuals/concepts/hvac-ceiling-concept.png?v=2" download>Download PNG ↓</a></div></figcaption></figure>
+<figure class="visual-item"><a href="assets/visuals/concepts/water-treatment-concept.png?v=2" target="_blank" rel="noopener"><img src="assets/visuals/concepts/water-treatment-concept.webp?v=2" width="1672" height="941" alt="Water storage, pumping &amp; filtration — Plant-room visualisation featuring water storage, booster pumps and filtration vessels." loading="lazy"></a><figcaption><h3>Water storage, pumping &amp; filtration</h3><p>Plant-room visualisation featuring water storage, booster pumps and filtration vessels.</p><div class="visual-downloads"><a href="assets/visuals/concepts/water-treatment-concept.png?v=2" download>Download PNG ↓</a></div></figcaption></figure></div></section>
 </main><footer><a class="footer-brand" href="index.html"><img src="assets/brand/mac-key-grip-logo.jpg" alt=""><span>Mac Key Grip<strong>Engineering</strong></span></a><div><p>Lusaka, Zambia</p><a href="mailto:mackeygrip@gmail.com">mackeygrip@gmail.com</a></div><div class="footer-end"><a href="https://wa.me/260770262871" target="_blank" rel="noopener">Discuss your project ↗</a></div></footer>
 </body></html>

diff --git a/script.js b/script.js
@@ -12,5 +12,6 @@ menuButton?.addEventListener('click',()=>{const open=navigation.classList.toggle
 navigation?.querySelectorAll('a').forEach(link=>link.addEventListener('click',closeMenu));
 window.addEventListener('scroll',()=>header?.classList.toggle('scrolled',window.scrollY>30),{passive:true});
 document.querySelectorAll('[data-contact]').forEach(link=>{const channel=contactChannels[link.dataset.contact];if(channel?.url){link.href=channel.url;link.removeAttribute('aria-disabled');if(!channel.url.startsWith('mailto:')){link.target='_blank';link.rel='noreferrer'}const detail=link.querySelector('small');if(detail&&channel.label)detail.textContent=channel.label}else{link.addEventListener('click',event=>{event.preventDefault();if(statusMessage){statusMessage.textContent=`${link.querySelector('strong')?.textContent||'This channel'} will be activated when the official detail is supplied.`;statusMessage.classList.add('active')}})}});
+document.querySelector('[data-enquiry-form]')?.addEventListener('submit',event=>{event.preventDefault();const form=event.currentTarget;const data=new FormData(form);const subject=`Project enquiry from ${data.get('name')}`;const body=[`Name: ${data.get('name')}`,`Email: ${data.get('email')}`,`Scope: ${data.get('scope')}`,'',String(data.get('message'))].join('\n');window.location.href=`mailto:mackeygrip@gmail.com?subject=${encodeURIComponent(subject)}&body=${encodeURIComponent(body)}`;const formStatus=form.querySelector('[data-form-status]');if(formStatus){formStatus.textContent='Your email app should open with the enquiry prepared. If it does not, email mackeygrip@gmail.com directly.';formStatus.classList.add('active')}});
 const items=document.querySelectorAll('.reveal');if('IntersectionObserver'in window&&!matchMedia('(prefers-reduced-motion: reduce)').matches){const observer=new IntersectionObserver((entries,watcher)=>entries.forEach(entry=>{if(entry.isIntersecting){entry.target.classList.add('visible');watcher.unobserve(entry.target)}}),{threshold:.12,rootMargin:'0px 0px -40px'});items.forEach(item=>observer.observe(item))}else items.forEach(item=>item.classList.add('visible'));
 const year=document.querySelector('#year');if(year)year.textContent=new Date().getFullYear();

diff --git a/visuals.css b/visuals.css
@@ -1,5 +1,4 @@
 .hero-media img { filter:brightness(.9); object-position:65% center; }
-.hero-credit { color:#fff; background:rgba(0,0,0,.7); padding:.5rem .75rem; font-size:.65rem; max-width:calc(100% - 48px); }
 .project .project-image.portfolio-cover { height:auto; min-height:0; max-height:none; aspect-ratio:8/5; background:#efeee8; }
 .project .portfolio-cover:after { display:none; }
 .project .portfolio-cover>img,.project:hover .portfolio-cover>img { width:100%; height:100%; object-fit:contain; filter:none; transform:none; }
@@ -39,3 +38,12 @@
 .social-grid { grid-template-columns:repeat(3,minmax(0,1fr)); }
 .concept-section { border-top:5px solid #263e2f; }
 @media(max-width:780px) { .visual-page { padding-top:70px; } .visual-grid,.social-grid,.visual-feature { grid-template-columns:1fr; } .visual-feature { gap:2rem; } }
+
+.water-feature { display:grid; grid-template-columns:1.25fr 1fr; background:#efeee8; align-items:center; }
+.water-feature-media { min-width:0; }
+.water-feature-media img { display:block; width:100%; height:auto; }
+.water-feature-copy { padding:3rem clamp(1.5rem,4vw,4.5rem); min-width:0; }
+.water-feature-copy h2 { margin:0 0 1.25rem; font:600 clamp(2rem,3.6vw,3.8rem)/1.06 "Space Grotesk",sans-serif; letter-spacing:-.045em; }
+.water-feature-copy>p:not(.kicker) { color:#505a54; max-width:540px; margin-bottom:1.5rem; }
+.water-feature-copy .text-link { display:inline-flex; flex-wrap:wrap; gap:.6rem; }
+@media(max-width:1000px) { .water-feature { grid-template-columns:1fr; } .water-feature-copy { padding:2.5rem var(--pad); } }

diff --git a/CREDITS.md b/CREDITS.md
@@ -20,4 +20,4 @@ Replace these files with redacted images of completed work as the portfolio deve
 
 The eleven CAD-based artworks in `assets/visuals/covers/`, `boards/` and `social/` embed crops of the supplied PNG exports in designed SVG layouts. Original linework is not regenerated. Presentation annotations are separate editorial overlays, not original equipment identifiers or design instructions. Original title blocks and drawing credits remain available on the full-sheet project pages. The original supplied logo remains unchanged.
 
-The two images in `assets/visuals/concepts/` were created with the built-in image-generation tool for this portfolio. They depict an illustrative HVAC ceiling and a pumping/filtration plant room. They are not site photographs, verified engineering designs, exact CAD reconstructions or evidence of completed installation. Preserve their concept labels when sharing. Generation prompts are recorded in `assets/visuals/PROMPTS.json`.
+The two images in `assets/visuals/concepts/` were created with the built-in image-generation tool for this portfolio. They depict an illustrative HVAC ceiling and a pumping/filtration plant room. They are not site photographs, verified engineering designs, exact CAD reconstructions or evidence of completed installation. These illustrations are used as decorative website imagery, separate from the CAD project records. Visible captions and embedded text were removed at the owner’s request. Generation prompts are recorded in `assets/visuals/PROMPTS.json`.
